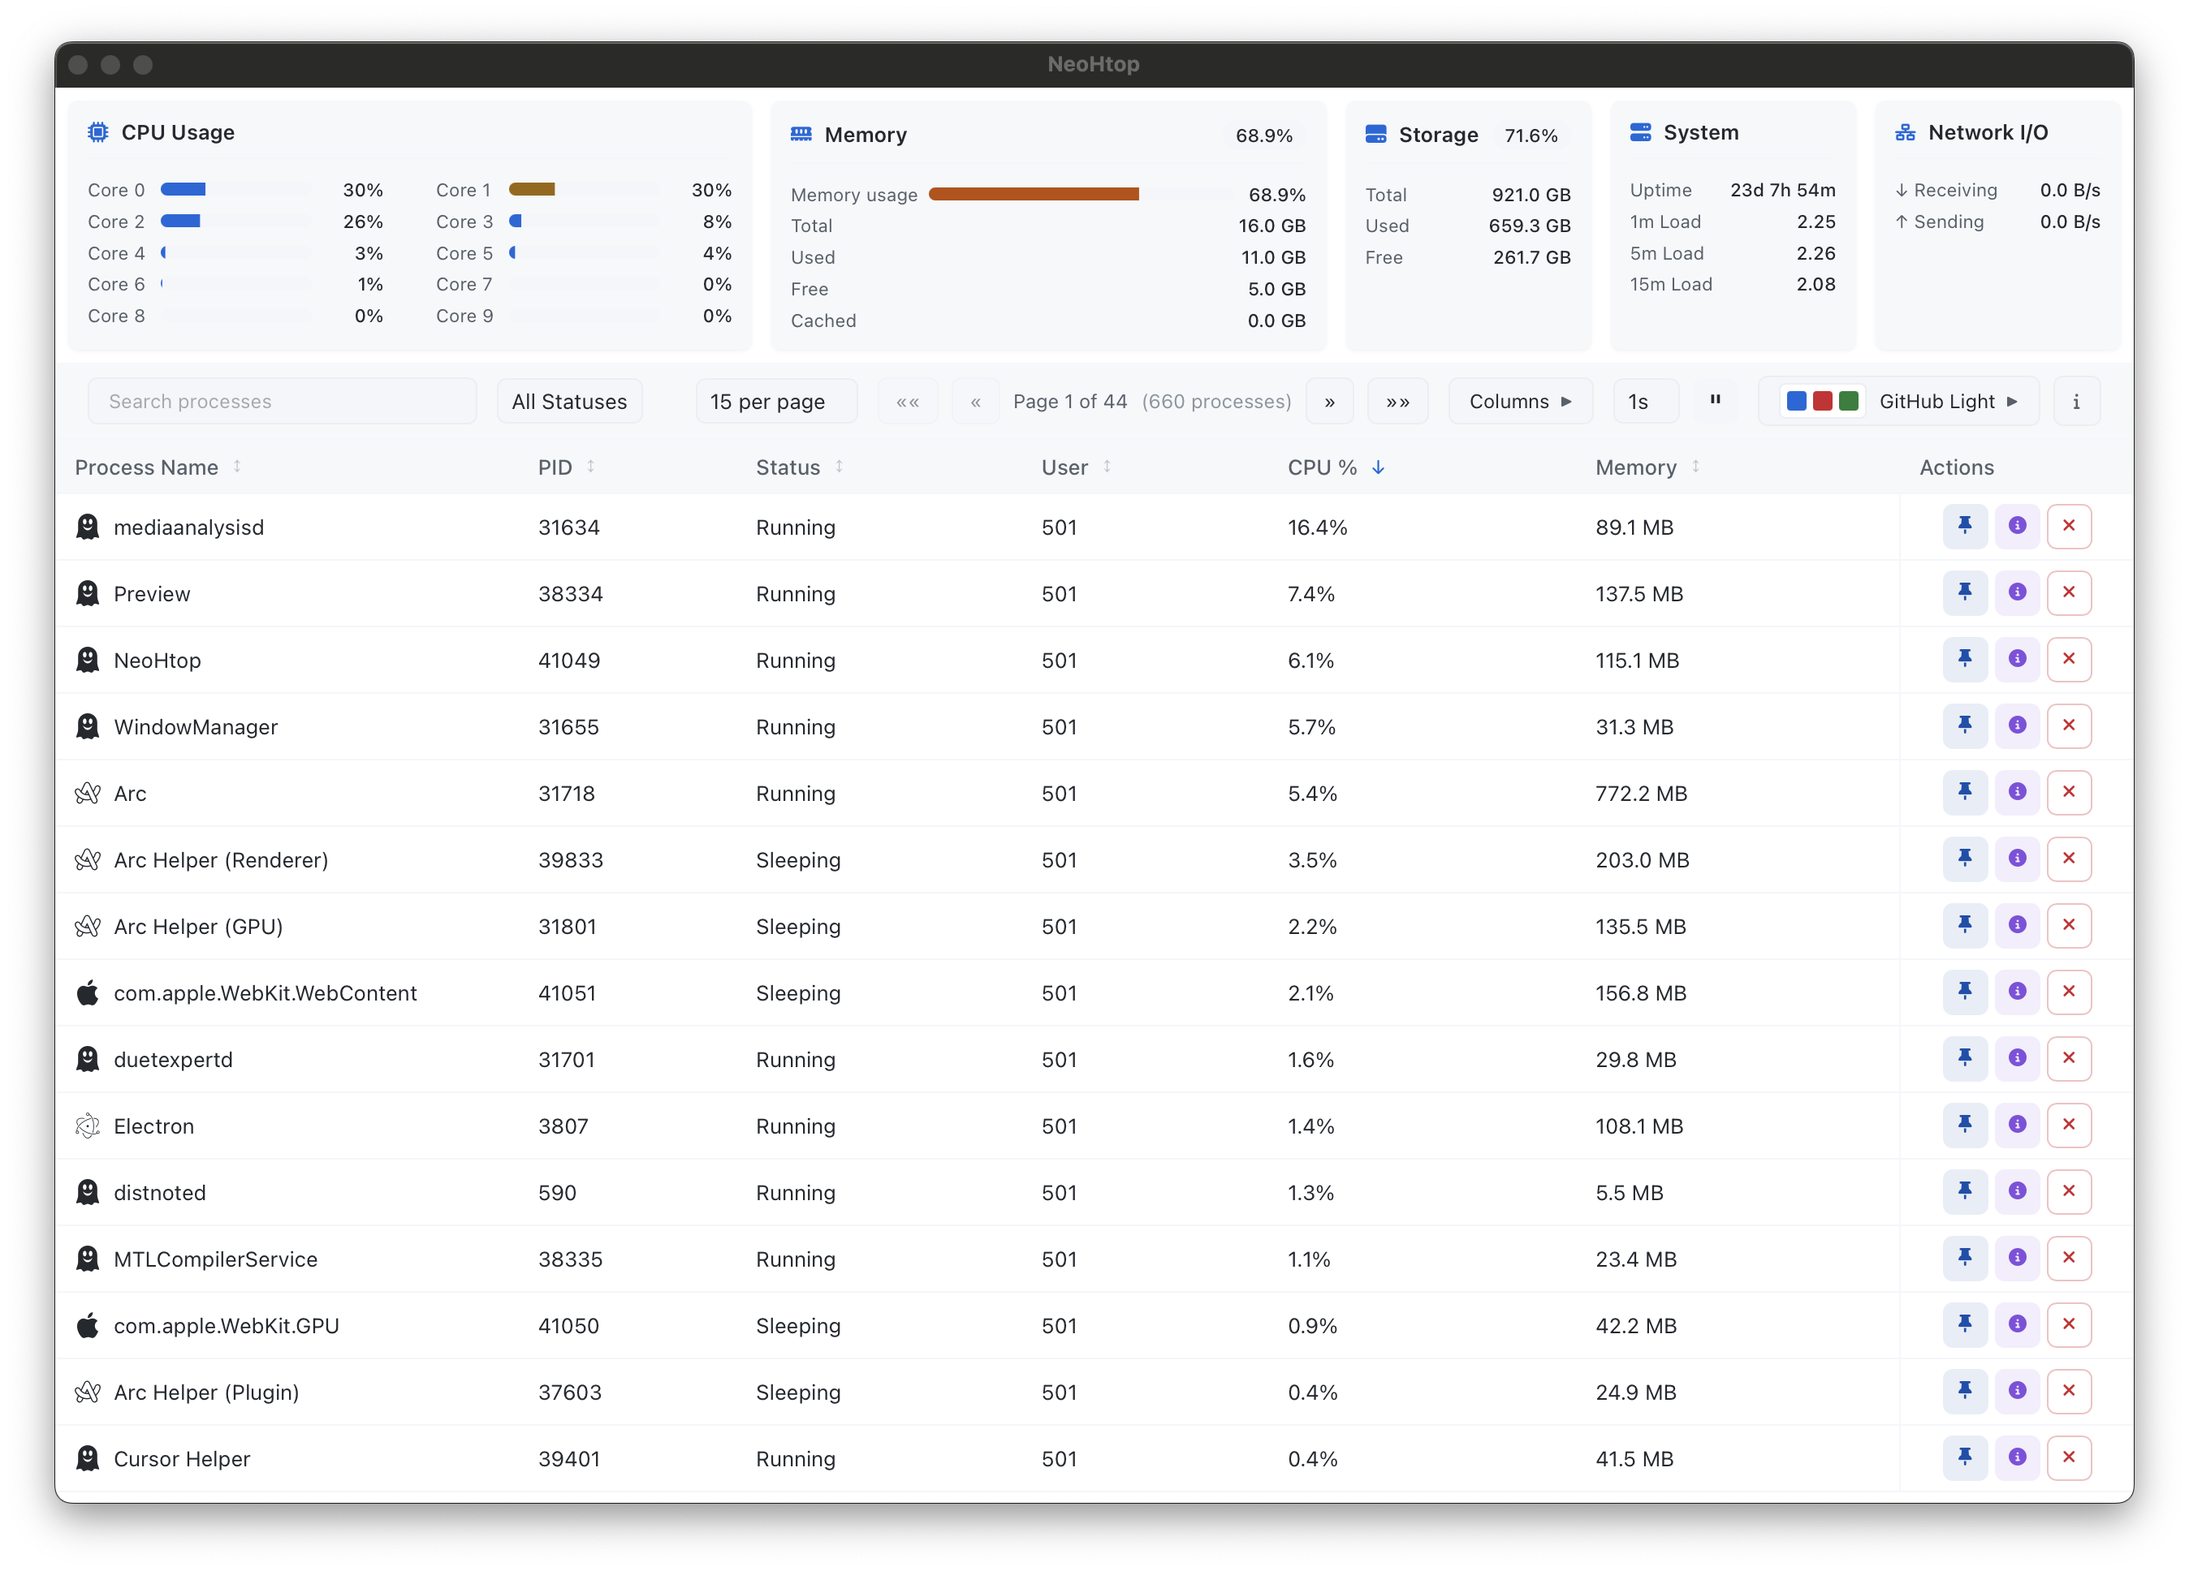
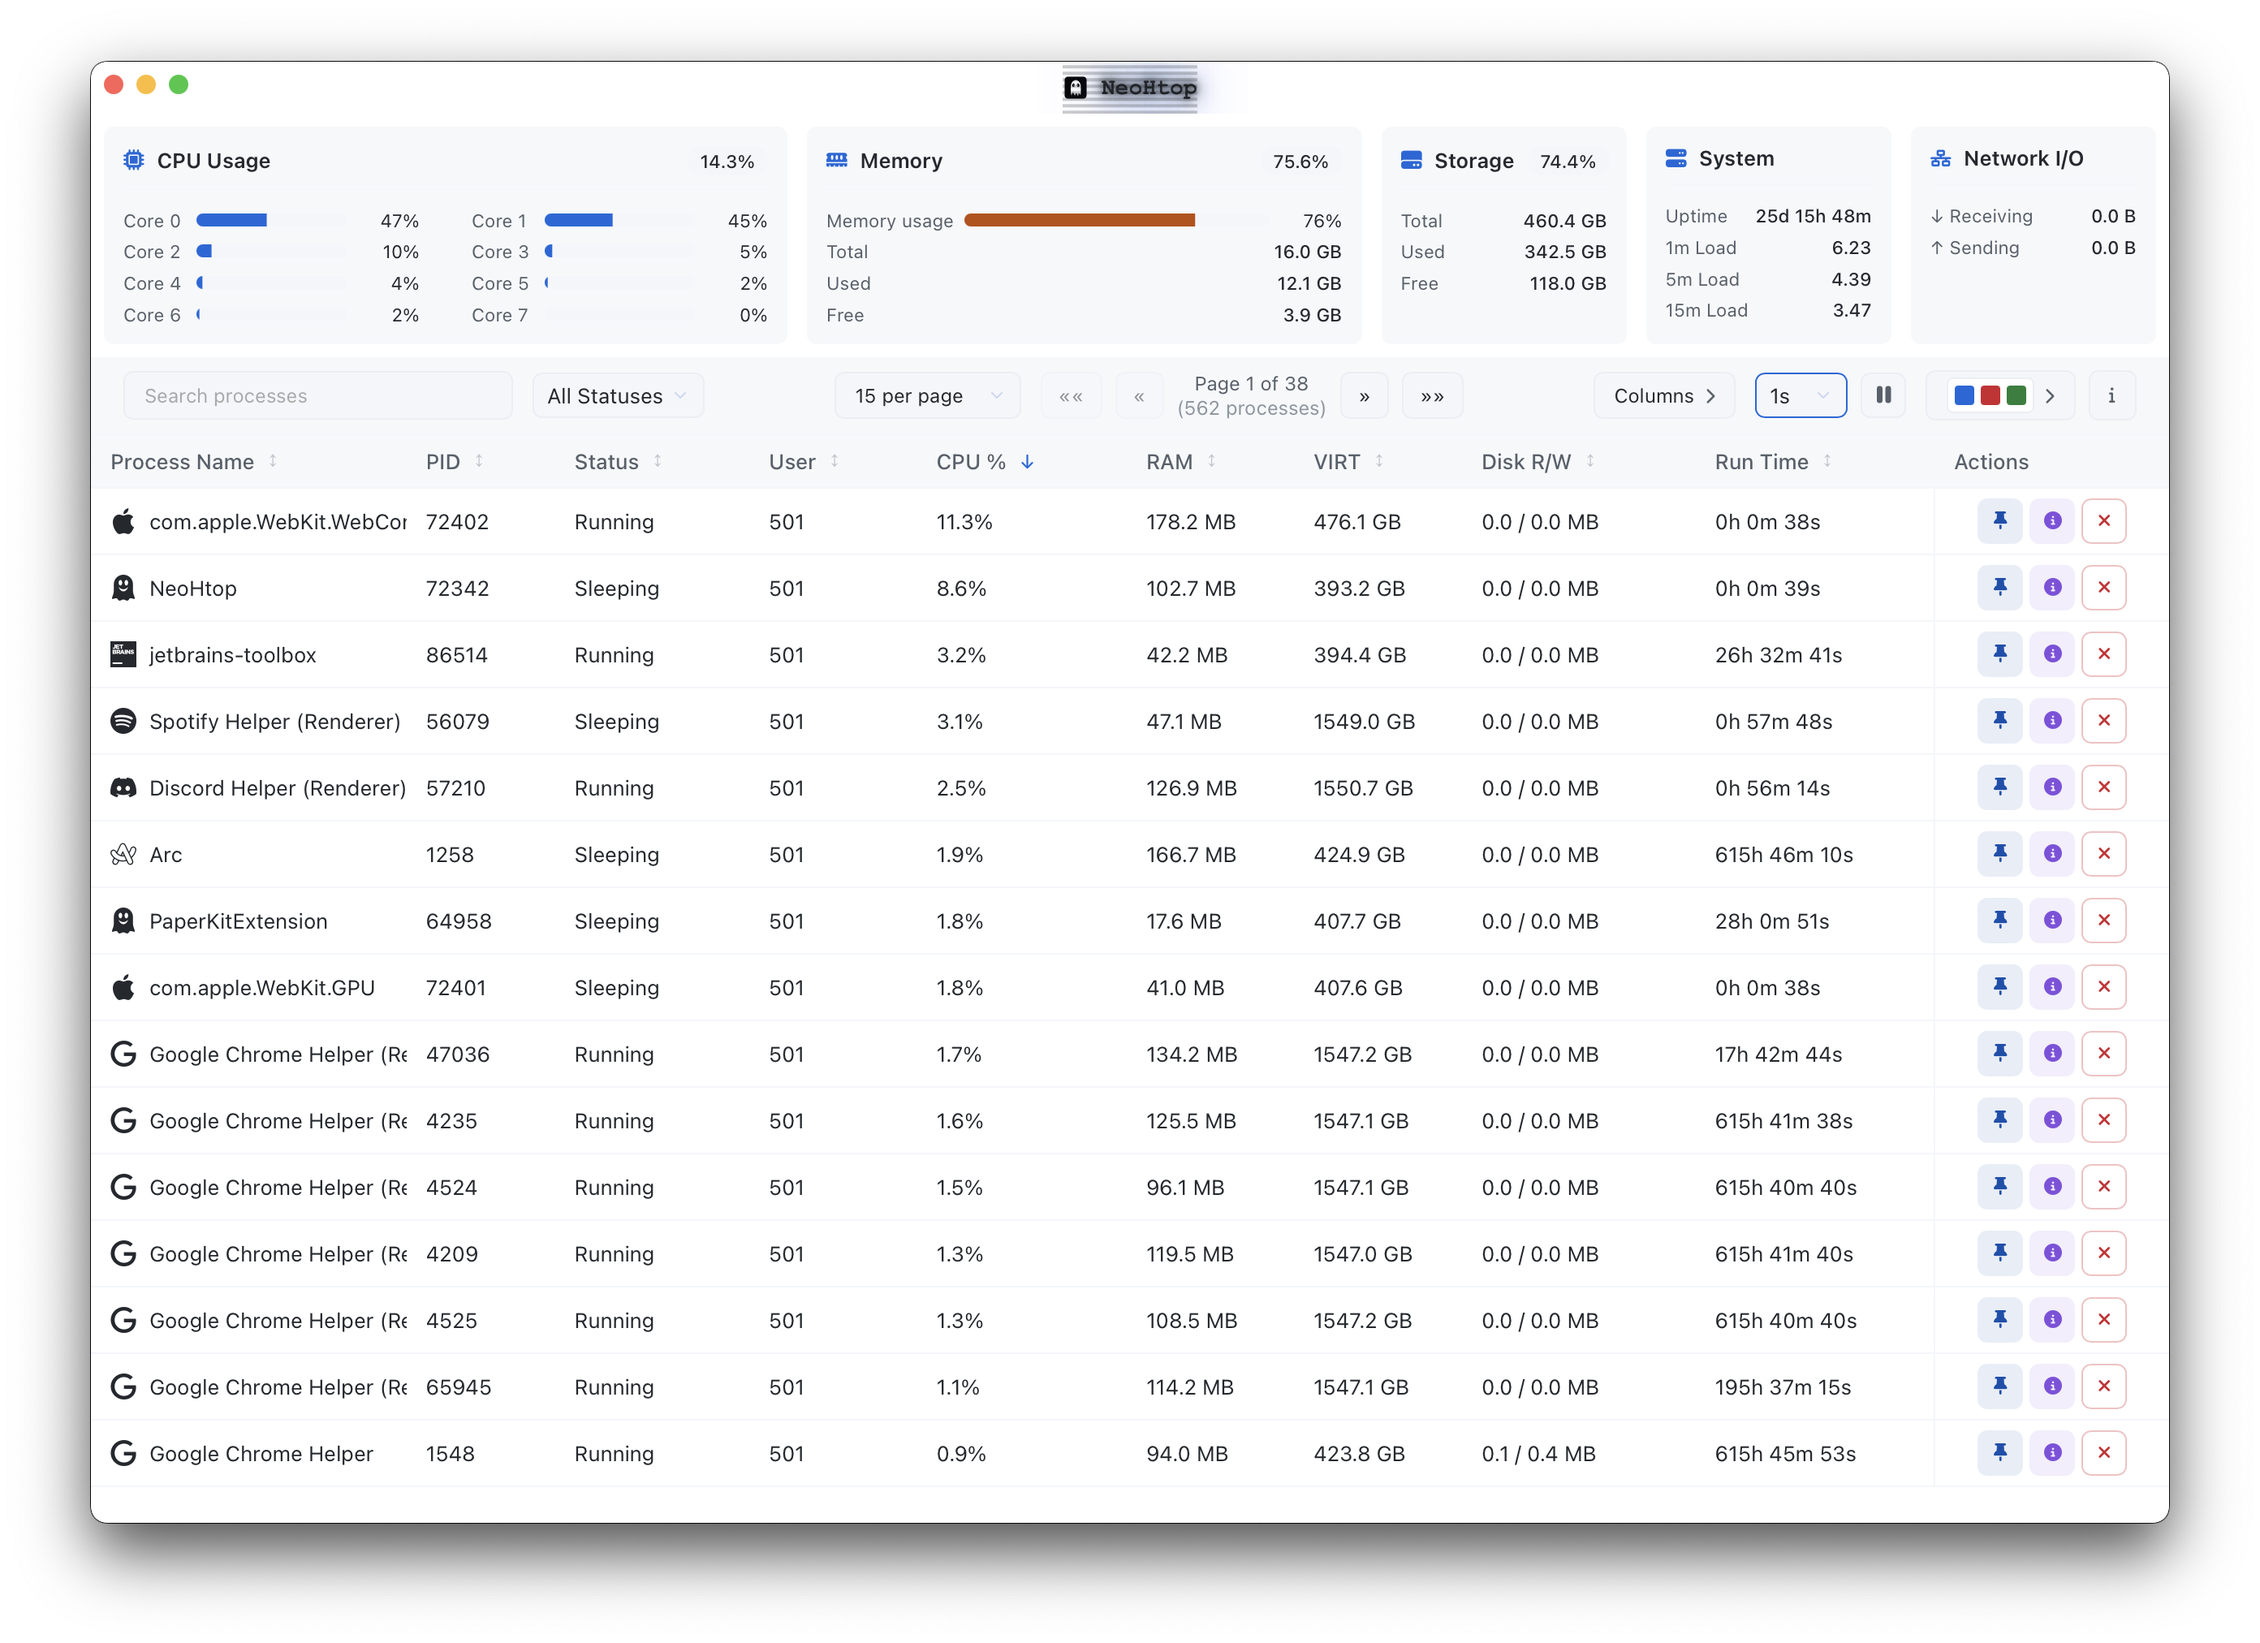
docs: update README.md
+ update screenshot with new UI
+ apply light/dark mode image transit

diff --git a/README.md b/README.md
@@ -11,7 +11,11 @@
 </div>
 
 <div align="center">
-  <img src="https://github.com/Abdenasser/neohtop/blob/main/screenshot.png?raw=true" alt="NeoHtop Screenshot" width="800" />
+  <picture>
+    <source media="(prefers-color-scheme: dark)" srcset="screenshot.png">
+    <source media="(prefers-color-scheme: light)" srcset="screenshot-light.png">
+    <img alt="NeoHtop Screenshot" src="./screenshot.png" width="800">
+  </picture>
 </div>
 
 ## Table of Contents
